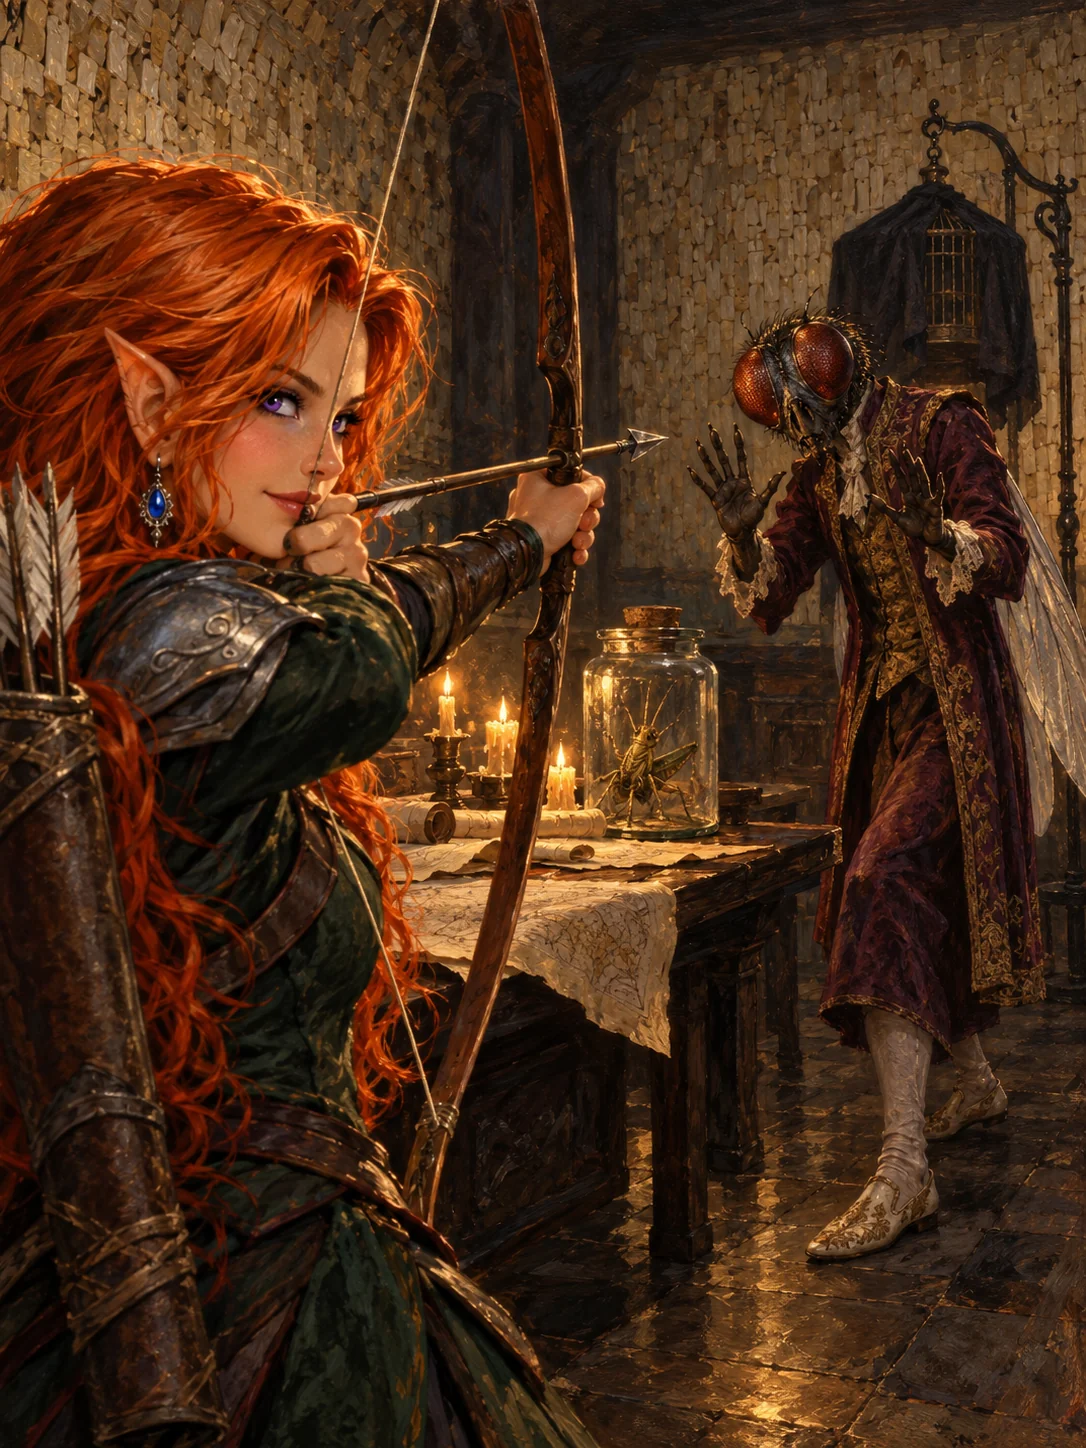
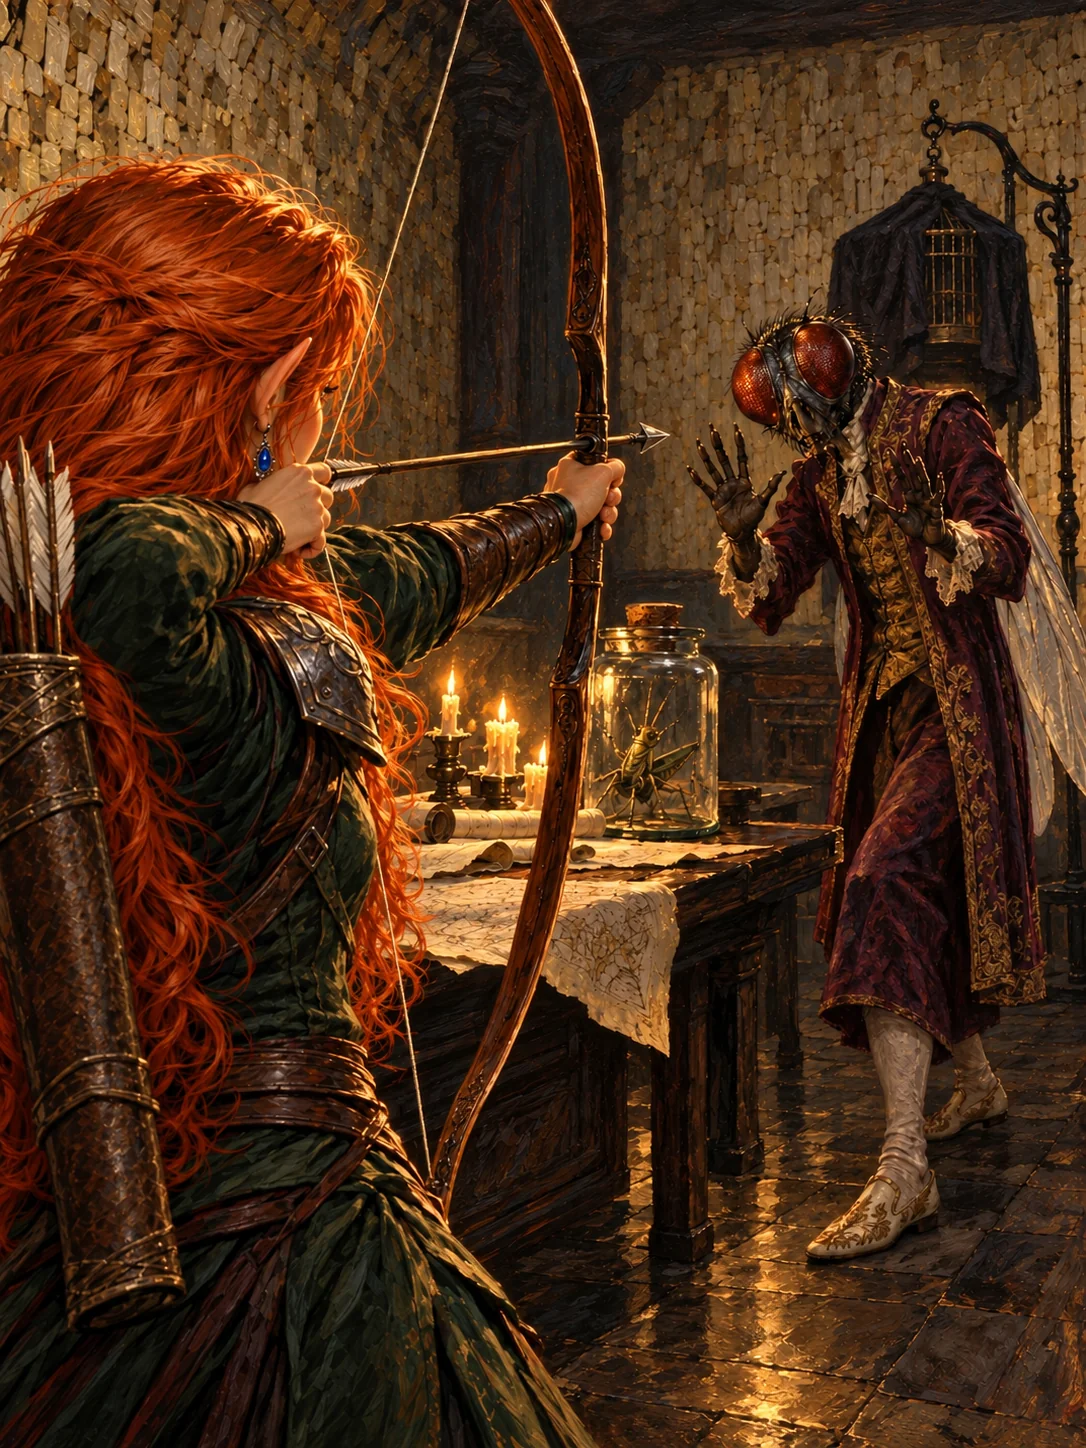
Re-roll Lupenor's plate and Yaniel's armour
Lupenor now faces Waxentong with a corrected bow and draw hand. The vault
plate drops Harlock and shows Yaniel's armour cut for a woman; the relic
entry records the woman's harness.

diff --git a/bible/03-lore-and-locations.md b/bible/03-lore-and-locations.md
@@ -74,14 +74,21 @@ first time any named item is illustrated.
 - ***Yaniel's armour*** — **mithril full plate of Iomedae**, found stacked neatly on a shelf in
   the lead-lined vault of the **Ivory Sanctum** (Book III, *What Radiance Remembered*). **Pale
   silver-white mithril, cooler and lighter-looking than steel, and plainly NOT gold** — it must
-  never converge with **Harlock**'s ornate golden plate, which is often in the same frame. Clean,
-  classical, close-fitting plate with restrained engraving. **Iomedae's device is worked into it
+  never converge with **Harlock**'s ornate golden plate, which is often in the same frame. **It
+  was made for a WOMAN, and the whole harness is cut to a woman's frame** *(Matt's direction, Oct
+  2026)*: slimmer than a man's, with a defined waist, narrower shoulders and pauldrons, slender
+  vambraces and finer gauntlets. **The breastplate is shaped for a woman**: a gently rounded
+  protective chest, sculpted in one piece and tapering to the waist above a skirt of lames. It is
+  modest and practical, a working warrior's harness and never a costume. Clean classical lines and
+  restrained engraving. **Iomedae's device is worked into it
   everywhere**: the breastplate, the back of each gauntlet and the shin-plates. That device is a
   vertical longsword, **point down: hilt and crossguard at the TOP, tip at the BOTTOM**, before a
   sun, in engraved raised work. **It glows softly** with a faint silver-white light of its own, a
   sheen in the metal rather than beams. *Avoid:* `gold or gilded plate, ornate scrollwork matching
   Harlock's armour, spikes, a bare sunburst with no sword, an inverted sword, beams or rays of
-  light, a helmet with a crest or plume, a mannequin or armour stand` (it lies stacked on a shelf).
+  light, a helmet with a crest or plume, a mannequin or armour stand, men's armour, a broad
+  barrel-chested breastplate, separate breast cups, cleavage, revealing armour` (it lies stacked
+  on a shelf).
 
 ## Enemy Intelligence (from Vhane's journals)
 
